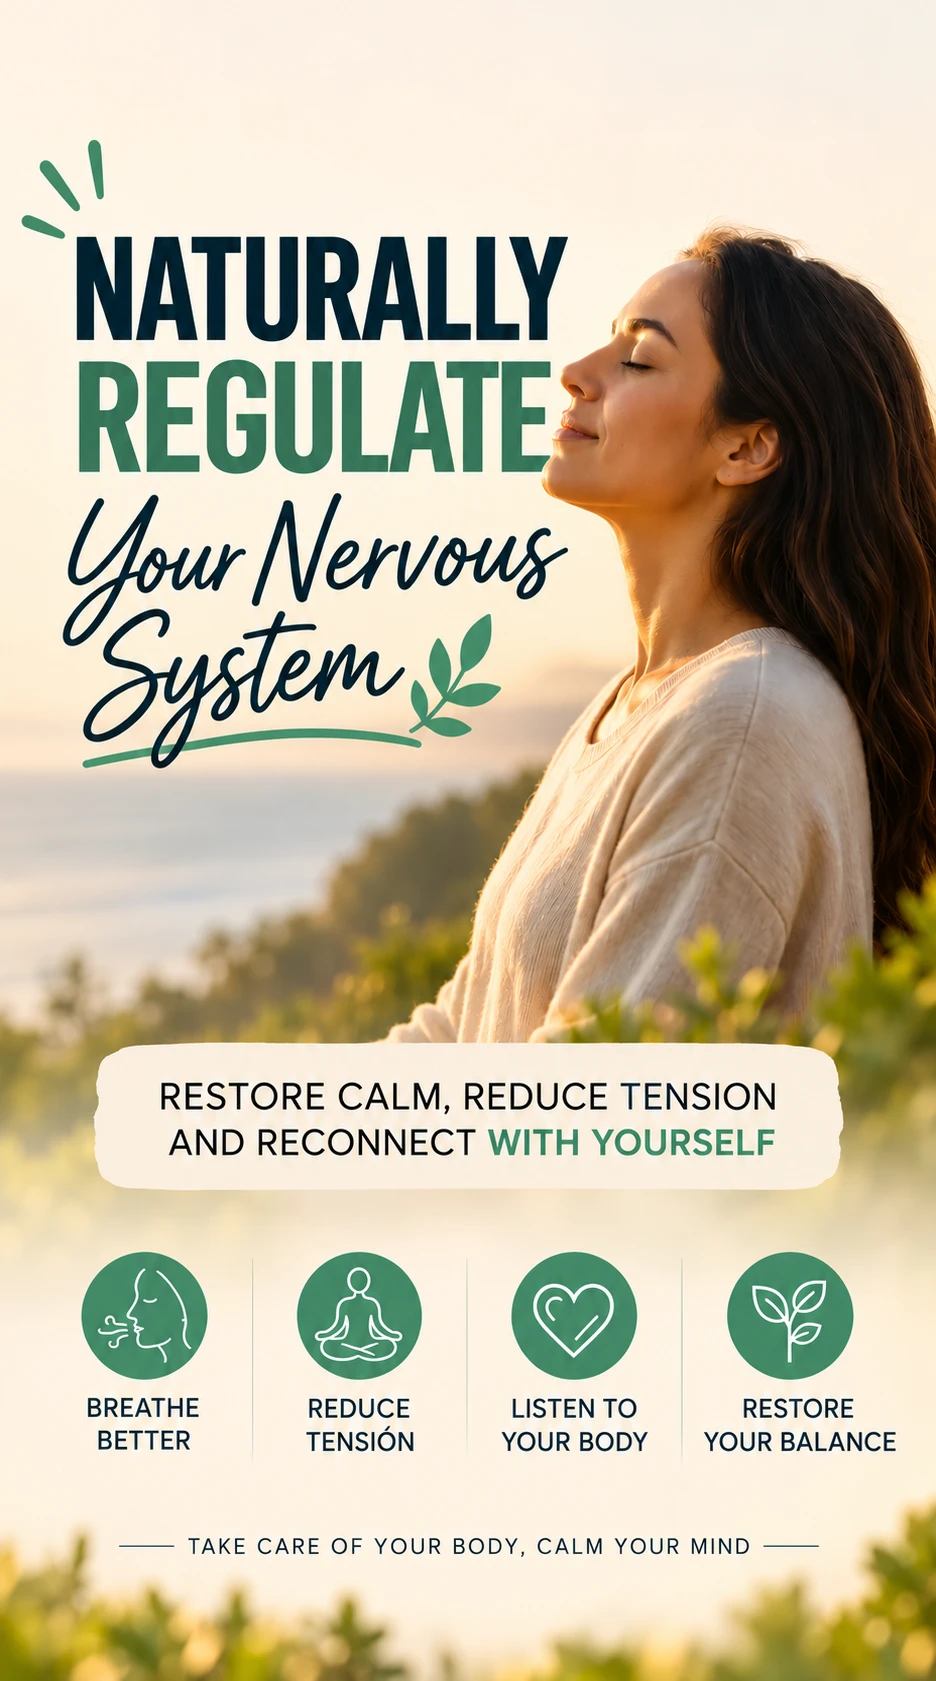
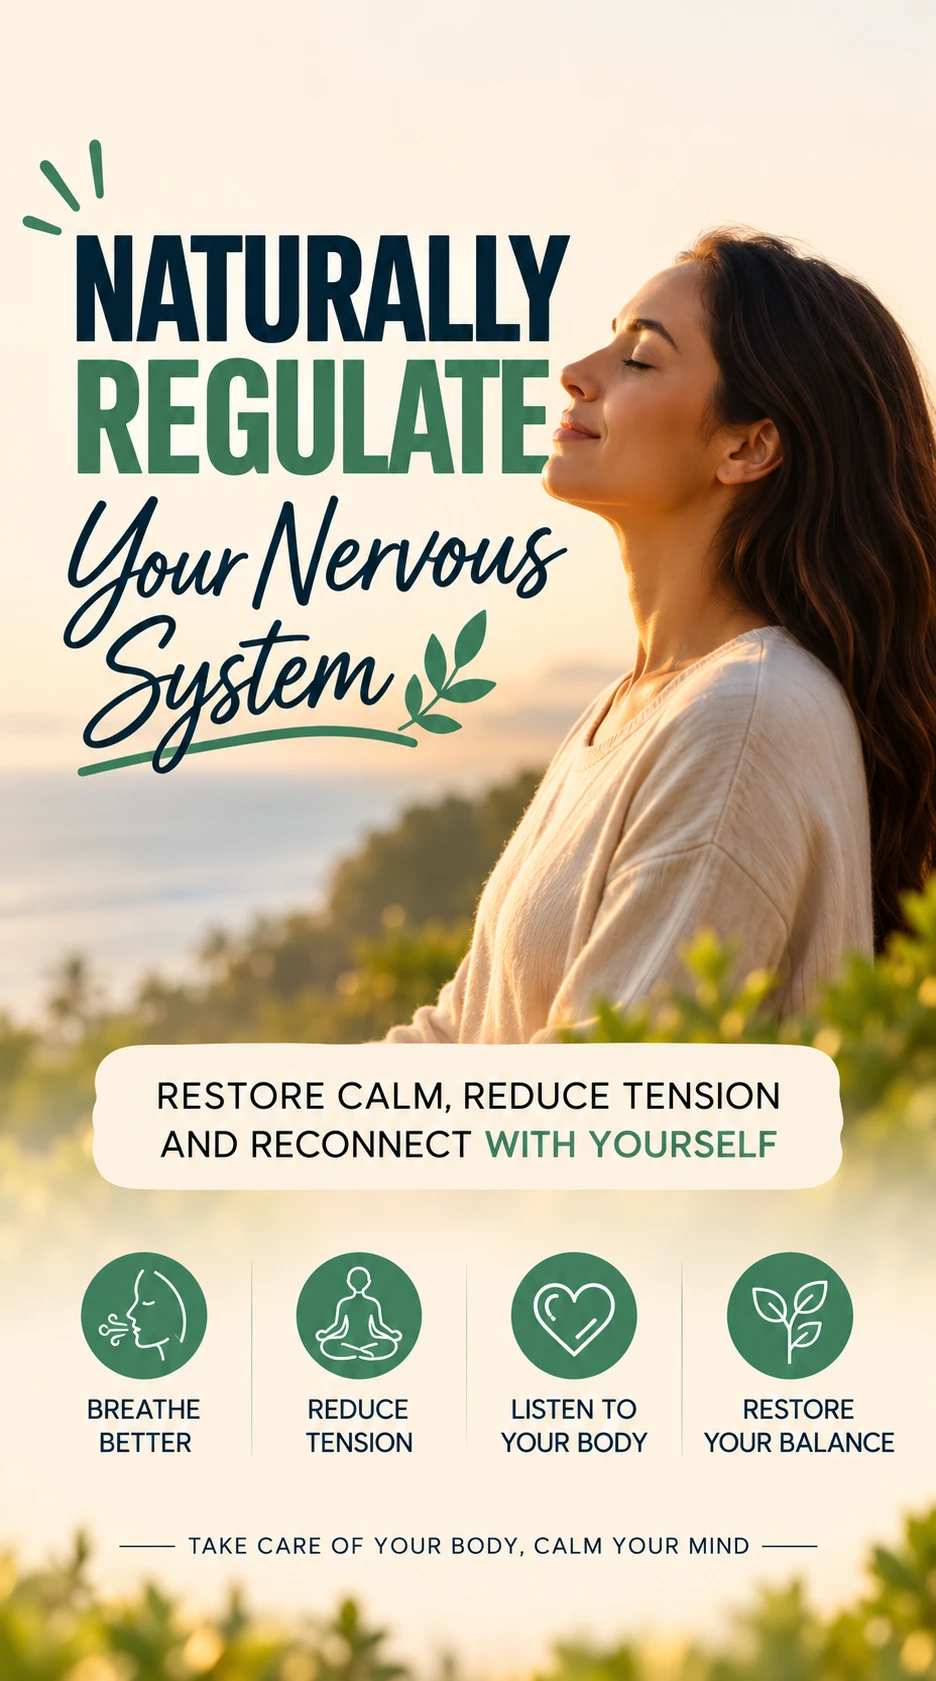
Imagen EN corregida: "REDUCE TENSION" sin tilde

diff --git a/stress-management-institute/en/index.html b/stress-management-institute/en/index.html
@@ -88,7 +88,7 @@
         </div>
       </div>
       <div class="photo-frame photo-frame--img">
-        <img class="hero-img" src="../assets/img/hero-regulate-your-nervous-system.webp" width="936" height="1681" fetchpriority="high" decoding="async"
+        <img class="hero-img" src="../assets/img/hero-regulate-your-nervous-system.webp?v=2" width="936" height="1681" fetchpriority="high" decoding="async"
              alt="Woman breathing with her eyes closed by the sea. Naturally regulate your nervous system: breathe better, reduce tension, listen to your body, and restore your balance.">
       </div>
     </div>
